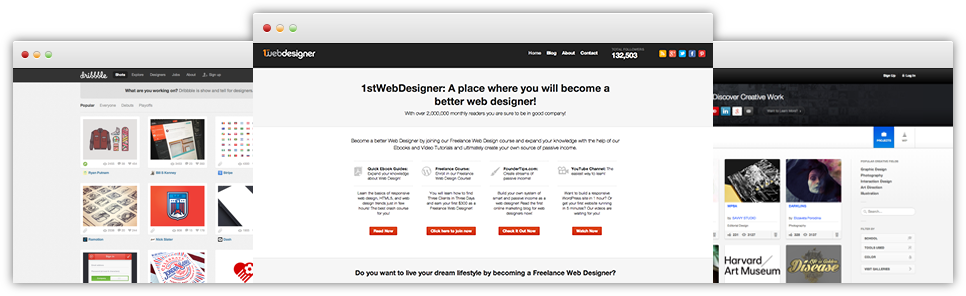
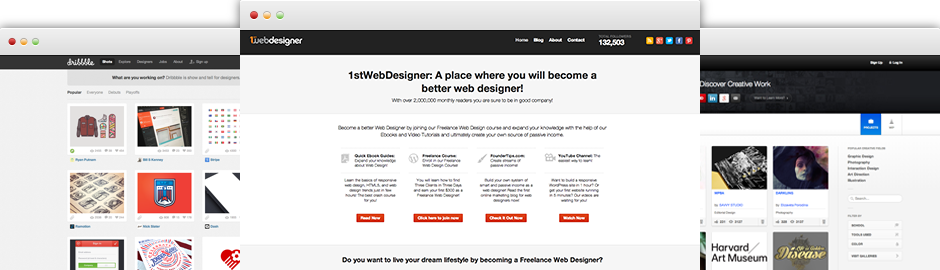
little improvements in background and responsive navbar

diff --git a/index.html b/index.html
@@ -5,7 +5,8 @@
     <meta charset="UTF-8">
     <meta name="viewport" content="width=device-width, initial-scale=1.0">
     <meta http-equiv="X-UA-Compatible" content="ie=edge">
-    <link rel="stylesheet" href="https://stackpath.bootstrapcdn.com/bootstrap/4.3.1/css/bootstrap.min.css">
+    <link rel="stylesheet" href="https://stackpath.bootstrapcdn.com/bootstrap/4.3.1/css/bootstrap.min.css"
+        integrity="sha384-ggOyR0iXCbMQv3Xipma34MD+dH/1fQ784/j6cY/iJTQUOhcWr7x9JvoRxT2MZw1T" crossorigin="anonymous">
     <link rel="stylesheet" href="styles.css">
     <title>Dipped</title>
 </head>
@@ -14,18 +15,22 @@
 
     <div class="jumbotron">
         <div class="container">
-
-
-
-            <nav class="navbar navbar-expand-md ">
+            <nav class="navbar navbar-dark  navbar-expand-md">
                 <a href="#" class="navbar-brand"><img src="./images/Logo.png" alt="" srcset=""></a>
-                <ul class="navbar-nav ml-auto">
-                    <li class="nav-item active"><a href="" class="nav-link">Home</a></li>
-                    <li class="nav-item"><a href="" class="nav-link">About us</a></li>
-                    <li class="nav-item"><a href="" class="nav-link">Services</a></li>
-                    <li class="nav-item"><a href="" class="nav-link">Blog</a></li>
-                    <li class="nav-item"><a href="" class="nav-link">Contact us</a></li>
-                </ul>
+                <button class="navbar-toggler" type="button" data-toggle="collapse"
+                    data-target="#navbarSupportedContent" aria-controls="navbarSupportedContent" aria-expanded="false"
+                    aria-label="Toggle navigation">
+                    <span class="navbar-toggler-icon"></span>
+                </button>
+                <div class="collapse navbar-collapse" id="navbarSupportedContent">
+                    <ul class="navbar-nav ml-auto">
+                        <li class="nav-item active"><a href="" class="nav-link">Home</a></li>
+                        <li class="nav-item"><a href="" class="nav-link">About us</a></li>
+                        <li class="nav-item"><a href="" class="nav-link">Services</a></li>
+                        <li class="nav-item"><a href="" class="nav-link">Blog</a></li>
+                        <li class="nav-item"><a href="" class="nav-link">Contact us</a></li>
+                    </ul>
+                </div>
             </nav>
 
             <div class="jumbotron-inner text-center">
@@ -232,6 +237,16 @@
             </div>
         </div>
     </footer>
+
+    <script src="https://code.jquery.com/jquery-3.3.1.slim.min.js"
+        integrity="sha384-q8i/X+965DzO0rT7abK41JStQIAqVgRVzpbzo5smXKp4YfRvH+8abtTE1Pi6jizo"
+        crossorigin="anonymous"></script>
+    <script src="https://cdnjs.cloudflare.com/ajax/libs/popper.js/1.14.7/umd/popper.min.js"
+        integrity="sha384-UO2eT0CpHqdSJQ6hJty5KVphtPhzWj9WO1clHTMGa3JDZwrnQq4sF86dIHNDz0W1"
+        crossorigin="anonymous"></script>
+    <script src="https://stackpath.bootstrapcdn.com/bootstrap/4.3.1/js/bootstrap.min.js"
+        integrity="sha384-JjSmVgyd0p3pXB1rRibZUAYoIIy6OrQ6VrjIEaFf/nJGzIxFDsf4x0xIM+B07jRM"
+        crossorigin="anonymous"></script>
 </body>
 
 </html>

diff --git a/styles.scss b/styles.scss
@@ -31,18 +31,17 @@ html {
 
 body {
 
+
     img {
         max-width: 100%;
     }
     .jumbotron {
         padding: 0;
         background: #222 url('./images/Layer12.jpeg') no-repeat 50% top;
+        background-size: cover;
         margin-bottom: 0;
 
 
-        .container {
-            height: 640px;
-        }
 
         #browser {
             margin-top: 26px;
@@ -50,7 +49,7 @@ body {
 
         .navbar {
             padding: 0;
-            height: 100px;
+            min-height: 100px;
             border-bottom: 1px solid rgba(255,255,255, 0.2);
 
         }

diff --git a/styles.css b/styles.css
@@ -33,11 +33,8 @@ body img {
 body .jumbotron {
   padding: 0;
   background: #222 url("./images/Layer12.jpeg") no-repeat 50% top;
+  background-size: cover;
   margin-bottom: 0;
-}
-
-body .jumbotron .container {
-  height: 640px;
 }
 
 body .jumbotron #browser {
@@ -46,7 +43,7 @@ body .jumbotron #browser {
 
 body .jumbotron .navbar {
   padding: 0;
-  height: 100px;
+  min-height: 100px;
   border-bottom: 1px solid rgba(255, 255, 255, 0.2);
 }
 
